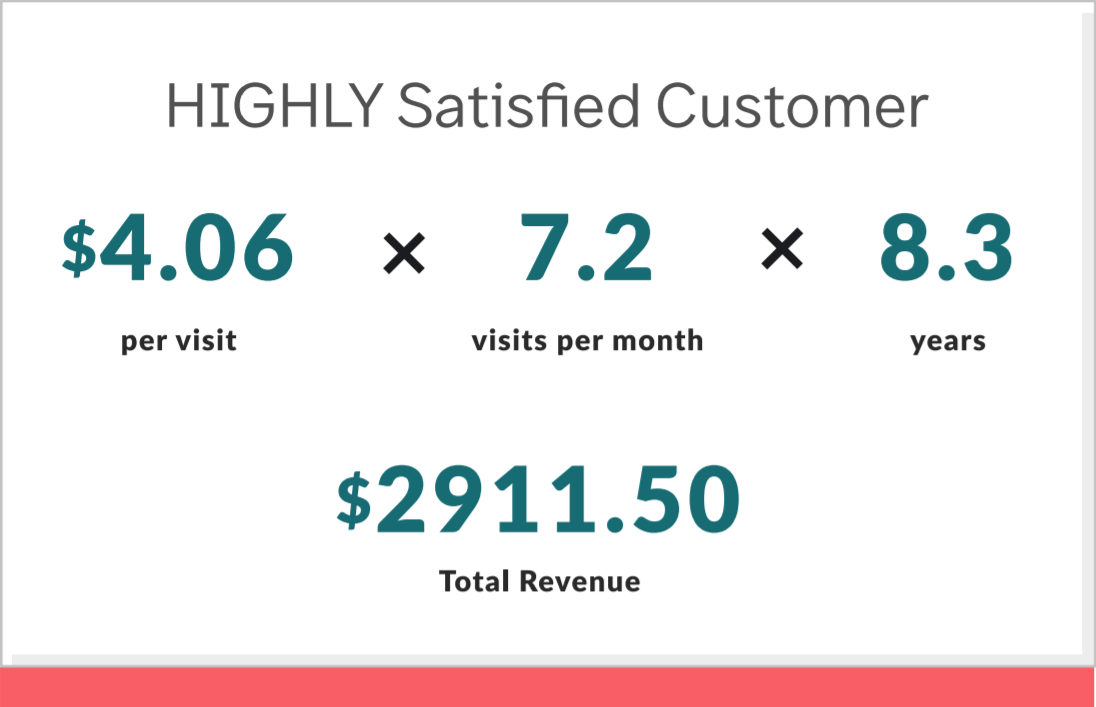
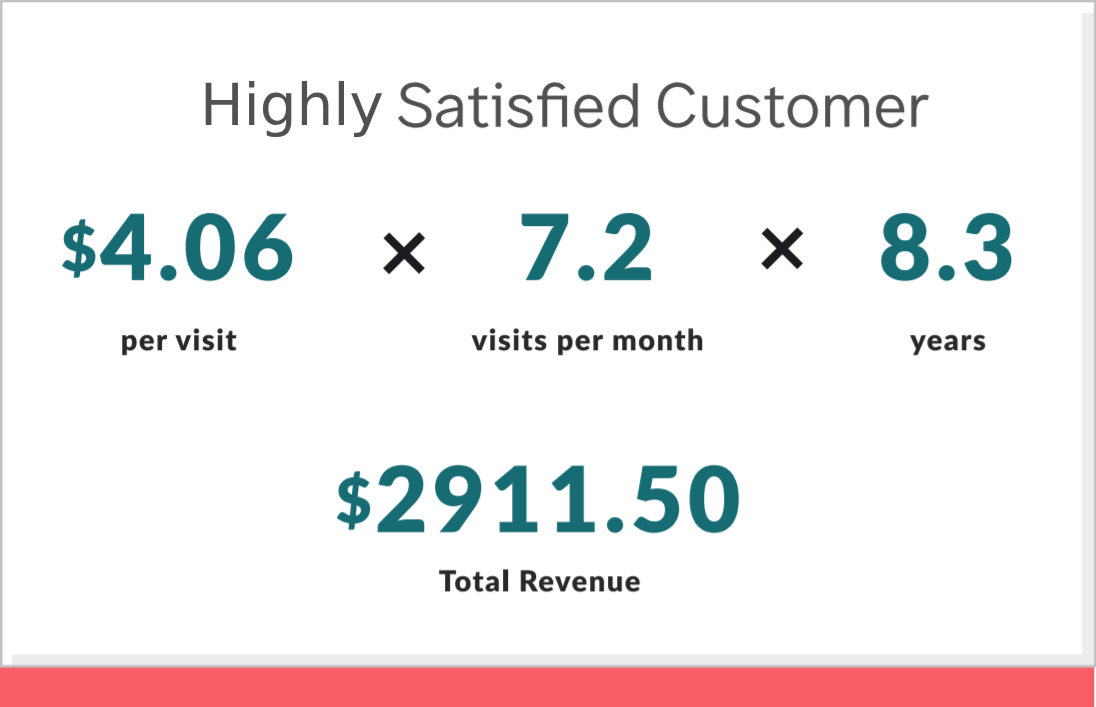
(fix) style changes from chapter 4-6

Changed region(s): [[0.1551, 0.0934, 0.3723, 0.1867]]

diff --git a/src/views/chapter-4.vue b/src/views/chapter-4.vue
@@ -2,7 +2,7 @@
 <article id="chapter-4">
     <header>
         <div class="chapter-title">Chapter 4</div>
-        <h1>Kickstarting Your New Restaurant Business</h1>
+        <h1>5 Steps to Kickstart your New Restaurant Business</h1>
         <address>
             <dl>
                 <dt>Written By:</dt>
@@ -12,7 +12,7 @@
         <section id="in-this-chapter">
             <h3>In this chapter:</h3>
             <ul>
-                <li>Getting your office back in order</li>
+                <li>Getting your back office in order</li>
                 <li>Establishing your online presence: website, social and more</li>
                 <li>Finding the right talent (sneak peak)</li>
             </ul>
@@ -21,7 +21,7 @@
     <p>Always dreamed of opening your own restaurant but weren’t sure where to start? Of course, there are many factors that go into planning your restaurant. But, getting the basics right is absolutely critical to success.</p>
     <p>Let’s look at five of the most important steps you can take to get off on the right foot and set yourself up for years of success in the restaurant industry.</p>
     <section>
-        <h2>Step #1: Get Your Office Back In Order</h2>
+        <h2>Step #1: Get your Back Office in Order</h2>
         <p>Before you take any steps with your restaurant, you want to get all of the legal and financial stuff sorted out. The worst situation to put yourself in is trying to scramble to figure out your accounting procedure 6 months after the restaurant is open.</p>
         <p>Get the basics figured out now and you won’t have to worry about them down the road.</p>
         <section>
@@ -68,13 +68,17 @@
             <p>Choosing the right domain name can have a huge impact on your web presence — and your entire business. You want something that’s short and memorable, but you also have to compete with other businesses all over the world to find just the right one.</p>
             <p>So you’ll need to get a bit creative in coming up with just the right domain name to capture your brand without making it so long or complex that it’s impossible to remember.</p>
             <p>There are a few factors to keep in mind when making the right choice.</p>
-            <dl>
+            <dl class="dl-inline">
                 <dt>Length:</dt>
                 <dd>Is it easy to remember? Keep it as short as you can.</dd>
+            </dl>
+            <dl class="dl-inline">
                 <dt>TLD (top-level domain):</dt>
-                <dd> The characters after the “dot”: Examples would be .com, .ca, .food, etc<sup><a href="https://en.wikipedia.org/wiki/Top-level_domain" target="_blank">[13]</a></sup>. Now with more than a hundred TDL options to choose from, you can get really creative with the domain name you choose for your restaurant. Of course, getting a “.com” is probably still your first choice. But people are quickly getting used to other domain endings, so don’t be afraid to try another option.</dd>
+                <dd>The characters after the “dot”: Examples would be .com, .ca, .food, etc<sup><a href="https://en.wikipedia.org/wiki/Top-level_domain" target="_blank">[13]</a></sup>. Now with more than a hundred TDL options to choose from, you can get really creative with the domain name you choose for your restaurant. Of course, getting a “.com” is probably still your first choice. But people are quickly getting used to other domain endings, so don’t be afraid to try another option.</dd>
+            </dl>
+            <dl class="dl-inline">
                 <dt>Price:</dt>
-                <dd>Domain names should range from $9.99 to 59.99 for most common TLDs. This will cover your domain registration for 12 months. If you’re looking at a “premium” domain that will cost a lot more, you may want to wait until you have established your business further.</dd>
+                <dd>Domain names should range from $9.99 to $59.99 for most common TLDs. This will cover your domain registration for 12 months. If you’re looking at a “premium” domain that will cost a lot more, you may want to wait until you have established your business further.</dd>
             </dl>
             <p>Keep in mind that you can update your domain in the future. So, settling for something that’s less than perfect now may be a smart choice until you can get the name you really want.</p>
             <p>Providers: enon, NameCheap, GoDaddy, and many more.</p>
@@ -136,10 +140,10 @@
             </dl>
         </section>
     </section>
-    <section>
-        <h2>Step #4: Establish Your Social Media Presence</h2>
+    <section class="pt-1">
         <div class="md-layout">
             <div class="md-layout-item md-small-size-100">
+                <h2>Step #4: Establish Your Social Media Presence</h2>
                 <p>Looking beyond just your website, you also need to start to build a brand for your restaurant online <sup><a href="https://www.chefhero.com/blog/2018/7/2/restaurant-branding-concept-brand-identity-naming-and-logos" target="_blank">[14]</a></sup>. You probably know that social media is a great way to connect with potential diners, share updates, and market your business.</p>
                 <p>For step 4, let’s walk through the basics of establishing your presence on social and what you need to know.</p>
             </div>

diff --git a/src/views/chapter-6.vue b/src/views/chapter-6.vue
@@ -31,7 +31,7 @@
         </a>
         <p>Another great way to deliver consistently excellent experiences is to personalize your customer service to each guest<sup><a href="https://www.theglobeandmail.com/life/food-and-wine/food-trends/a-cycle-of-exploitation-how-restaurants-get-cooks-to-work-12-hour-days-for-minimum-wage-or-less/article26999168/" target="_blank">[21]</a></sup>. Maintain a guest database and use it to offer special promotions to loyal customers. Encourage servers to get to know regulars and address them by name. Train your staff to know the menu well enough to offer suggestions based on what customers like or what they’ve already ordered. Recommending the perfect drink or dessert to compliment a meal will make a customer feel especially taken care of.</p>
         <figure class="figure mb-1">
-            <figcaption class="figure__title">Restaurants can experience a 216% increase in revenue for going above & beyond.</figcaption>
+            <figcaption class="figure__title">Restaurants can experience a 216% increase in revenue for going <br>above & beyond.</figcaption>
             <div class="md-layout">
                 <div class="md-layout-item md-small-size-100">
                     <a :href="require('../assets/images/chapter__6_image_2.png')" target="_blank" data-fancybox="gallery">
@@ -63,13 +63,13 @@
         <p>First, standardize your products and your process. Make sure you’re getting consistently fresh, high-quality ingredients from your suppliers, and if you’re not, change suppliers. Eliminate variability in how different chefs create your dishes by documenting recipes and making sure everyone follows them.</p>
         <p>It’s also a good idea to simplify your menu. The more complex your menu or any given dish is, the more opportunities there are for it to vary. Find ways to simplify recipes without sacrificing flavor. Consider that when it comes to the size of your menu, less is more — focus on a smaller number of dishes you know your staff can execute perfectly, rather than an overabundance of choice.</p>
         <p>In addition to standardization and simplification, train your staff. Make sure everyone involved in cooking and food preparation understands the menu and the standardization process, so there’s no human error causing variances in the food. Train servers to know the menu inside and out so they can answer questions guests may have about specific dishes or ingredients.</p>
-        <p>And lastly, like with general customer service, take advantage of feedback from your guests. Ask them for their comments and concerns, both to make them feel heard, and to gather information about whether your food is as consistent as it should be.</p>
+        <p class="mb-0">And lastly, like with general customer service, take advantage of feedback from your guests. Ask them for their comments and concerns, both to make them feel heard, and to gather information about whether your food is as consistent as it should be.</p>
+        <a :href="require('../assets/images/chapter__6_image_4.png')" target="_blank" data-fancybox="gallery">
+            <img :src="require('../assets/images/chapter__6_image_4.png')" alt="" class="figure has-border">
+        </a>
         <p>Use their comments to identify any problems with your food consistency and address them head-on.</p>
         <p>Modern customers, in all industries, have high expectations for customer service. But in restaurants, where there’s so much competition, providing customer service that wows your guests is necessary if you want to stand out. Restaurant owners know that repeat business is a vital part of any eatery’s success. Great customer service will beget happy, loyal customers who visit over and over again, which lays the foundation for years of success.</p>
         <p class="mb-0">Customer service is what motivates people to come back to your restaurant. But your menu is what makes it profitable (or not). In the next section, we will go over strategies to help you optimize your menu to be more profitable.</p>
     </section>
-    <a :href="require('../assets/images/chapter__6_image_4.png')" target="_blank" data-fancybox="gallery">
-        <img :src="require('../assets/images/chapter__6_image_4.png')" alt="" class="mb-0 figure">
-    </a>
 </article>
 </template>

diff --git a/src/views/chapter-3.vue b/src/views/chapter-3.vue
@@ -267,7 +267,7 @@
             <p>However, for someone just starting their business, there are great free-to-cheap options to be found with talented individuals on gig-based sites, such as Fiverr, Upwork and Freelancer. If you get frustrated when designing your logo, check out some of the portfolios by designers within your budget — you’ll be surprised at the quality of work you can find.</p>
             <p>If this seems overwhelming don’t let it be! Start with a simple design that you’re happy with and build out from there. If you hit a roadblock, there are thousands of free resources and professionals who can help assist in designing your logo.</p>
             <p>Try them out and see which one speaks to you.</p>
-            <p>We like Logojoy, not just for their reasonable prices, but also for the inspirational logo generation processes.</p>
+            <p>We like <a target="_blank" href="https://logojoy.com/">Logojoy</a>, not just for their reasonable prices, but also for the inspirational logo generation processes.</p>
             <p>Here are a few other fantastic options to get you started:</p>
             <ul columns="2">
                 <li><a target="_blank" href="https://www.designcrowd.com/">Designcrowd</a></li>

diff --git a/src/assets/scss/_content.scss b/src/assets/scss/_content.scss
@@ -51,8 +51,8 @@ article {
 	#in-this-chapter * { color: #52979D; }
 }
 #chapter-5 {
-	& > header { background-color: #FFA6AA; }
-	#in-this-chapter * { color: #FFA6AA; }
+	& > header { background-color: #FF737A; }
+	#in-this-chapter * { color: #FF737A; }
 }
 #chapter-6 {
 	& > header { background-color: #FFA443; }

diff --git a/src/assets/scss/_normalize.scss b/src/assets/scss/_normalize.scss
@@ -102,11 +102,18 @@ article {
 	}
 }
 
+.has-border {
+	border-radius: 3px;
+	border: $primary 4px solid;
+}
+
 .dl-inline {
-	display: flex;
+	dt,
 	dd {
-		margin-left: 12px;
-		margin-bottom: 0;
+		display: inline;
+	}
+	dd {
+		margin-left: .5rem;
 	}
 }
 
